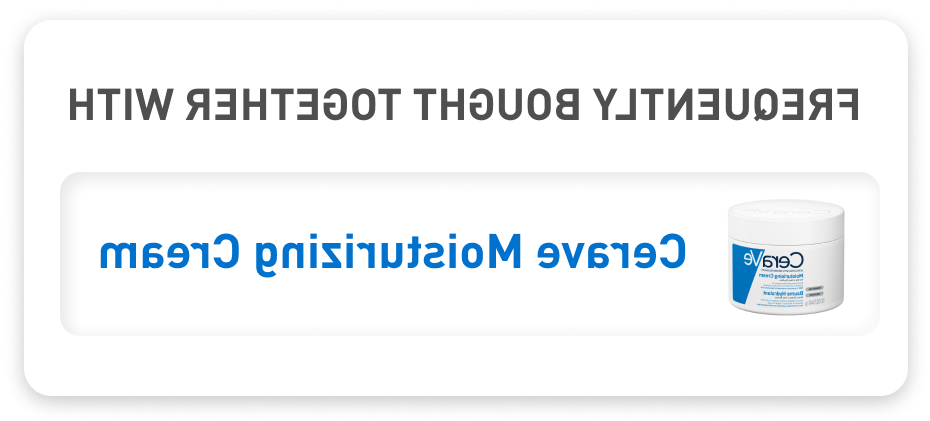
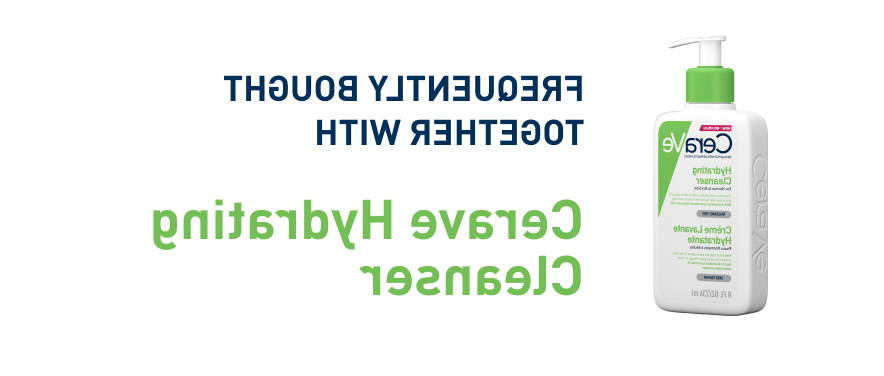
updated images +  changed height of a-curved image + updated folder structure for images

diff --git a/src/routes/__mock__/data.ts b/src/routes/__mock__/data.ts
@@ -78,7 +78,7 @@ export const data = {
   ],
   efficacy: {
     head: 'Efficacy',
-    url: 'https://via.placeholder.com/310',
+    url: '/images/efficacy/efficacy.png',
   },
   howToApply: {
     head: 'How to Apply',
@@ -88,7 +88,7 @@ export const data = {
     url1: '/images/frequently-bt/frequently-bt-p1.png',
     url2: '/images/frequently-bt/frequently-bt-p2.png',
     url3: '/images/frequently-bt/frequently-bt-p3.png',
-    product1url: 'https://www.cerave.com/skincare/cleansers/foaming-facial-cleanser',
-    product2url: 'https://www.cerave.com/skincare/cleansers/hydrating-cream-to-foam-cleanser',
+    product1url: 'https://www.cerave.com/skincare/cleansers/hydrating-cream-to-foam-cleanser',
+    product2url: 'https://www.cerave.com/skincare/cleansers/foaming-facial-cleanser',
   }
 };

diff --git a/src/const/product.ts b/src/const/product.ts
@@ -3,24 +3,24 @@ export const menuList = [
     id: 'radio-review',
     name: 'Reviews',
     value: '0',
-    image: '../images/reviews-icon.png',
+    image: '../images/dashboard/reviews-icon.png',
   },
   {
     id: 'radio-our-science',
     name: 'Our Science',
     value: '1',
-    image: '../images/our-science-icon.png',
+    image: '../images/dashboard/our-science-icon.png',
   },
   {
     id: 'radio-texture',
     name: 'Texture',
     value: '2',
-    image: '../images/texture-icon.png',
+    image: '../images/dashboard/texture-icon.png',
   },
   {
     id: 'radio-frequently-bt',
-    name: 'Frequently Bought Together',
+    name: 'Similar Products',
     value: '3',
-    image: '../images/frequently-bt-icon.png',
+    image: '../images/dashboard/frequently-bt-icon.png',
   },
 ];

diff --git a/public/product/css/efficacy-modal.css b/public/product/css/efficacy-modal.css
@@ -16,7 +16,7 @@
 }
 
 .efficacy-image{
-    /* margin-bottom: 10px; */
+    width: 310px;
 }
 
 .efficacy-modal__close {
